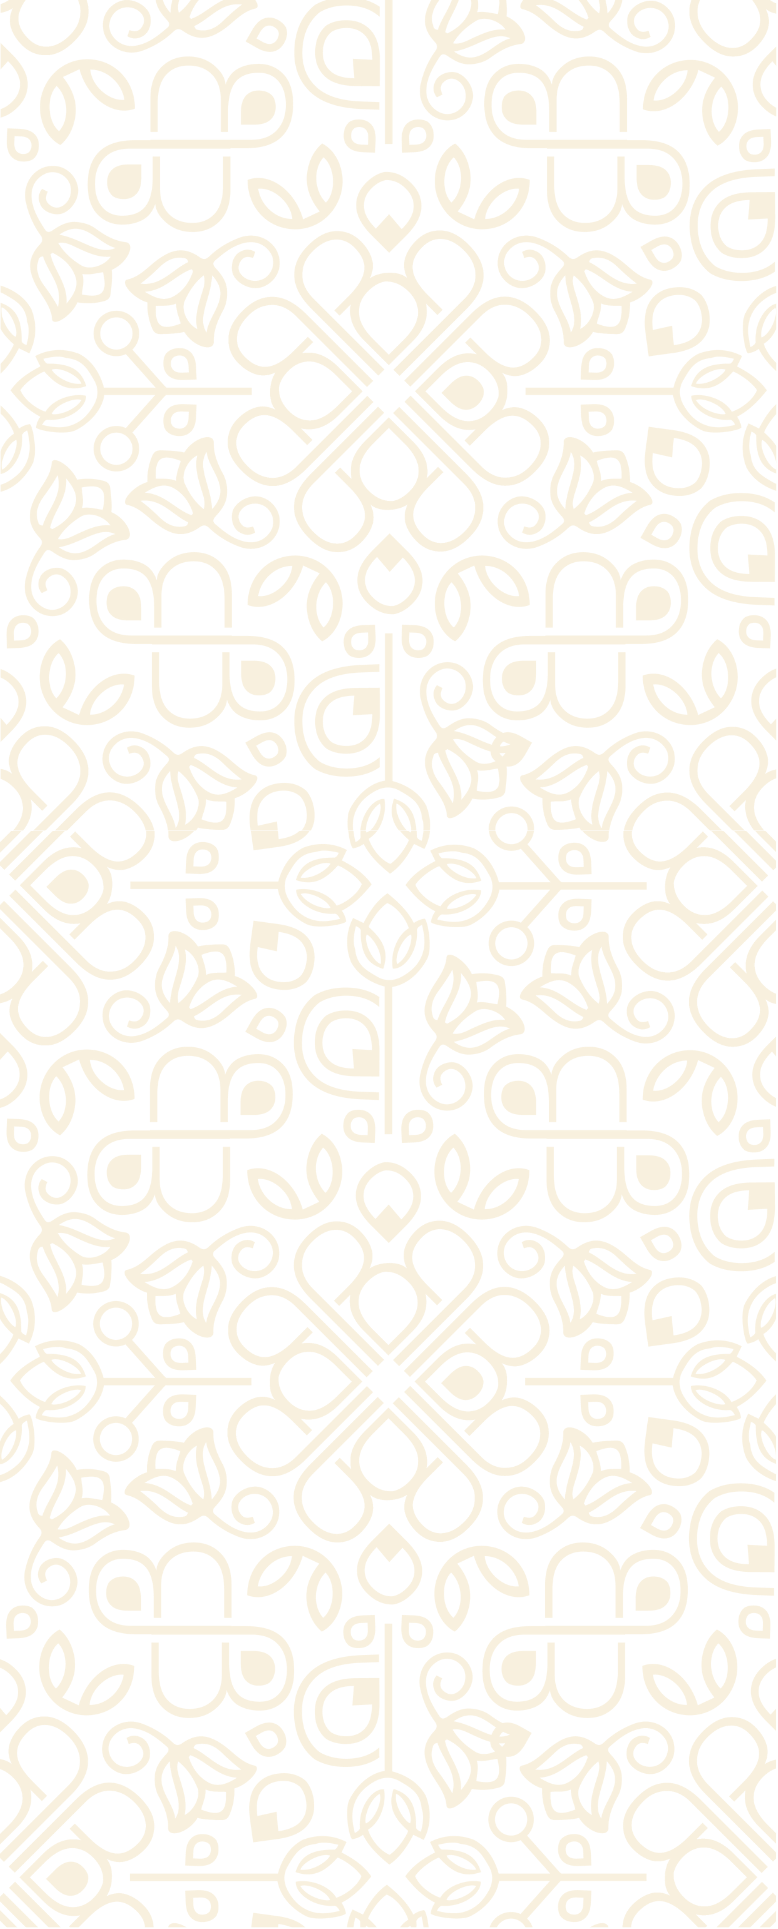
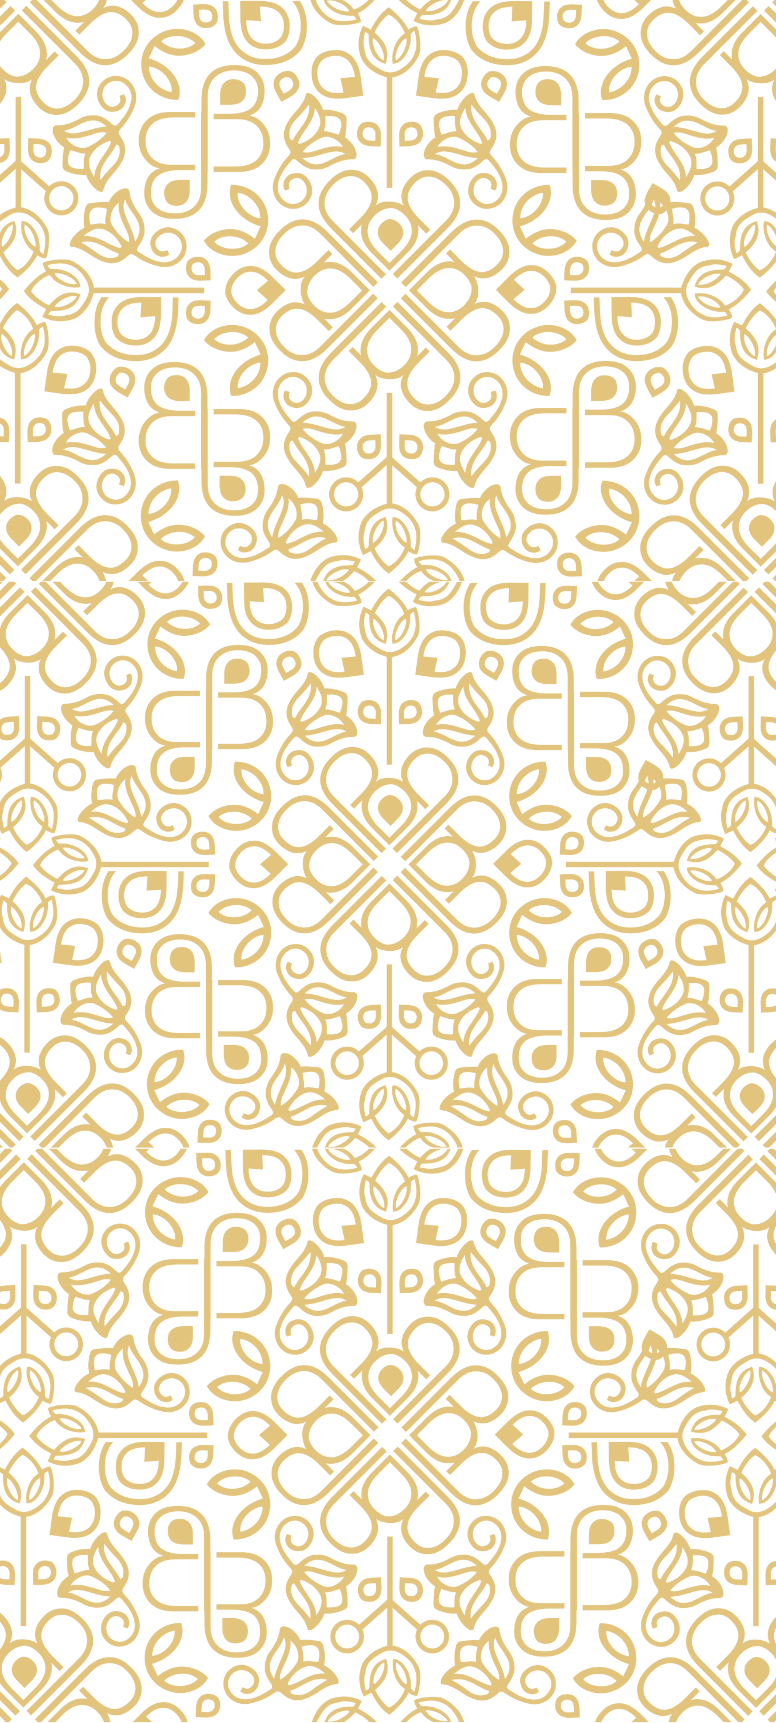
Imagem backgraund melhorada

diff --git a/src/components/Background/index.js b/src/components/Background/index.js
@@ -6,7 +6,7 @@ const Background = ({ children }) => {
     <Container>
       <BackgroundImage
         source={require("../../assets/images/fundoBellissare.png")}
-        imageStyle={{ opacity: 0.8 }}
+        imageStyle={{ opacity: 0.5 }}
       >
         {children}
       </BackgroundImage>
